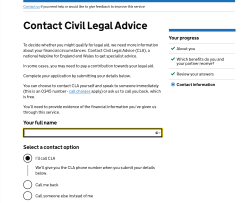
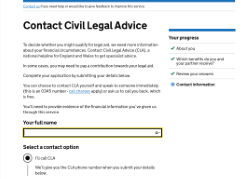
thumbnail images now align & layout is responsive

diff --git a/src/pages/Eligibility.jsx b/src/pages/Eligibility.jsx
@@ -1,4 +1,4 @@
-import React  from "react";
+import React from "react";
 import { Card } from "react-bootstrap";
 import { Link } from "react-router-dom";
 import checkScreen from "../img/legalAidCheckScreen.png";
@@ -24,7 +24,7 @@ function Eligibility() {
         have just downloaded with you on your court date.
       </p>
       <div className="row justify-content-center row-cols-1 row-cols-md-3 mb-3 text-center">
-        <div className="col ">
+        <div className="col lg-w-50">
           <Card className="">
             <a href="https://www.gov.uk/check-legal-aid" target="blank">
               <Card.Body>
@@ -40,7 +40,7 @@ function Eligibility() {
         </div>
       </div>
       <div className="row justify-content-center row-cols-1 row-cols-md-3 mb-3 text-center">
-        <div className="col">
+        <div className="col lg-w-50">
           <Card className="mb-2">
             <Link to="/noSolicitor">
               <Card.Body className="">
@@ -56,7 +56,7 @@ function Eligibility() {
             </Link>
           </Card>
         </div>
-        <div className="col">
+        <div className="col lg-w-50">
           <Card>
             <Link to="/details">
               <Card.Body>
@@ -73,22 +73,6 @@ function Eligibility() {
           </Card>
         </div>
       </div>
-      {/*
-      <div>
-        <a
-          href="https://www.gov.uk/check-legal-aid"
-          role="button"
-          className="m-2 btn btn-dark"
-          target="_blank"
-          rel="noreferrer"
-        >
-          Check if you are eligible for Legal Aid
-        </a>
-        <Link to="/details" role="button" className="m-2 btn btn-info">
-          See Details of Solicitors
-        </Link>
-      </div>
-*/}
     </>
   );
 }

diff --git a/src/pages/Details.jsx b/src/pages/Details.jsx
@@ -1,6 +1,5 @@
 import React from "react";
 import { Link } from "react-router-dom";
-import { Alert } from "react-bootstrap";
 import SolicitorCard from "../components/SolicitorCard";
 import data from "../data/housing-solicitors";
 import AlertAttendCourt from "../components/AlertAttendCourt";
@@ -43,7 +42,6 @@ export default function Details() {
             I was not able to find a solicitor to represent me
           </Link>
         </div>
-
         <AlertAttendCourt />
       </div>
     </>

diff --git a/src/pages/CourtInfo.jsx b/src/pages/CourtInfo.jsx
@@ -1,6 +1,6 @@
 import React, { useRef, useState } from "react";
 import html2pdf from "html2pdf.js";
-import { Button, Form, Alert } from "react-bootstrap";
+import { Button, Form } from "react-bootstrap";
 import AlertAttendCourt from "../components/AlertAttendCourt";
 
 function CourtInfo() {

diff --git a/src/pages/NoSolicitor.jsx b/src/pages/NoSolicitor.jsx
@@ -1,5 +1,4 @@
 import React from "react";
-import { Alert } from "react-bootstrap";
 import AlertAttendCourt from "../components/AlertAttendCourt";
 
 export default function NoSolicitor() {

diff --git a/src/pages/HasSolicitor.jsx b/src/pages/HasSolicitor.jsx
@@ -1,5 +1,4 @@
 import React from "react";
-import { Alert } from "react-bootstrap";
 import AlertAttendCourt from "../components/AlertAttendCourt";
 
 function HasSolicitor() {
